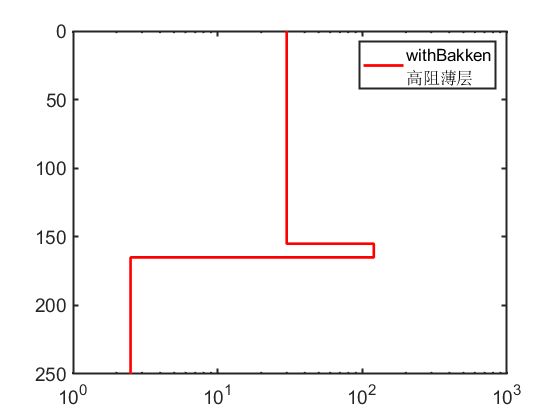
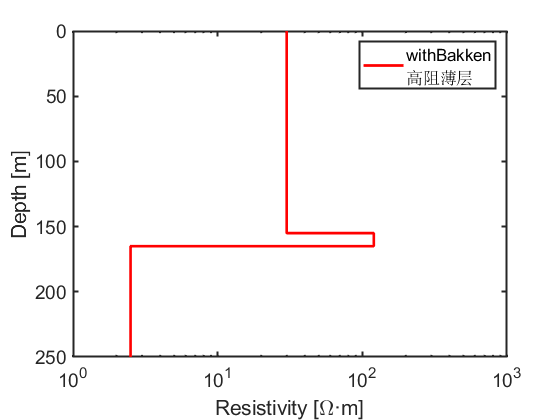
Site updated: 2022-05-14 18:36:58

diff --git a/2022/05/14/MTDW_withorwithoutBakken/index.html b/2022/05/14/MTDW_withorwithoutBakken/index.html
@@ -224,7 +224,7 @@
         </header>
 
         <div class="post-content">
-            <p>该模型是Alan Jones，2019中提到的一个Bakken模型，是对Strack，2014文献中的Bakken页岩层的简化。（即 Alan jones，2019文献中“EXAMPLE OF APPLICATION FOR AN “IMPOSSIBLE” PROBLEM”部分的例子。）</p>
+            <p>该模型是Alan Jones，2019中提到的一个Bakken模型，是对Strack，2014文献中的Bakken页岩层的简化。（即 Alan jones，2019文献中“<strong>EXAMPLE OF APPLICATION FOR AN “IMPOSSIBLE” PROBLEM</strong>”部分的例子。）</p>
 <p>通过该例可以看到，含/不含高阻薄层的正演响应曲线十分接近，这也是MT反演时难以识别高阻薄层的原因。</p>
 <h3 id="高阻薄层-模型参数"><a href="#高阻薄层-模型参数" class="headerlink" title="高阻薄层-模型参数"></a>高阻薄层-模型参数</h3><p>该模型中，高阻薄层厚度为10 m，电阻率值为120 Ω·m，其上方是30 Ω·m的相对低阻层，下方是2.5 Ω·m的均匀半空间。下表列出了含有高阻薄层与不含高阻薄层的模型参数。</p>
 <center>
@@ -267,7 +267,7 @@
 <center>withoutBakken model （不含高阻薄层模型）</center>
 
 <h3 id="正演响应"><a href="#正演响应" class="headerlink" title="正演响应"></a>正演响应</h3><p>下面绘制withBakken（含有高阻薄层）模型与withoutBakken（不含高阻薄层）模型的正演响应曲线：</p>
-<figure class="highlight matlab"><table><tr><td class="gutter"><pre><span class="line">1</span><br><span class="line">2</span><br><span class="line">3</span><br><span class="line">4</span><br><span class="line">5</span><br><span class="line">6</span><br><span class="line">7</span><br><span class="line">8</span><br><span class="line">9</span><br><span class="line">10</span><br><span class="line">11</span><br><span class="line">12</span><br><span class="line">13</span><br><span class="line">14</span><br><span class="line">15</span><br><span class="line">16</span><br><span class="line">17</span><br><span class="line">18</span><br><span class="line">19</span><br><span class="line">20</span><br><span class="line">21</span><br><span class="line">22</span><br><span class="line">23</span><br><span class="line">24</span><br><span class="line">25</span><br><span class="line">26</span><br><span class="line">27</span><br><span class="line">28</span><br><span class="line">29</span><br><span class="line">30</span><br><span class="line">31</span><br><span class="line">32</span><br><span class="line">33</span><br><span class="line">34</span><br><span class="line">35</span><br><span class="line">36</span><br><span class="line">37</span><br><span class="line">38</span><br><span class="line">39</span><br><span class="line">40</span><br><span class="line">41</span><br><span class="line">42</span><br><span class="line">43</span><br><span class="line">44</span><br><span class="line">45</span><br><span class="line">46</span><br><span class="line">47</span><br><span class="line">48</span><br><span class="line">49</span><br><span class="line">50</span><br><span class="line">51</span><br><span class="line">52</span><br><span class="line">53</span><br><span class="line">54</span><br><span class="line">55</span><br><span class="line">56</span><br><span class="line">57</span><br><span class="line">58</span><br><span class="line">59</span><br><span class="line">60</span><br><span class="line">61</span><br><span class="line">62</span><br><span class="line">63</span><br><span class="line">64</span><br><span class="line">65</span><br><span class="line">66</span><br><span class="line">67</span><br><span class="line">68</span><br><span class="line">69</span><br><span class="line">70</span><br><span class="line">71</span><br><span class="line">72</span><br><span class="line">73</span><br><span class="line">74</span><br><span class="line">75</span><br><span class="line">76</span><br><span class="line">77</span><br><span class="line">78</span><br><span class="line">79</span><br><span class="line">80</span><br><span class="line">81</span><br></pre></td><td class="code"><pre><span class="line"><span class="function"><span class="keyword">function</span> <span class="title">ShowMT1DForward_withorwithoutBakken</span><span class="params">(varargin)</span></span></span><br><span class="line">f = <span class="built_in">logspace</span>(<span class="number">-3</span>,<span class="number">3</span>,<span class="number">21</span>)&#x27;;</span><br><span class="line">rho_withBakken = [<span class="number">30</span>;<span class="number">120</span>;<span class="number">2.5</span>];        <span class="comment">% 高阻薄层</span></span><br><span class="line">rho_withoutBakken = [<span class="number">30</span>;<span class="number">30</span>;<span class="number">2.5</span>];      <span class="comment">% 不含高阻薄层</span></span><br><span class="line">h = [<span class="number">155</span>;<span class="number">10</span>];                         <span class="comment">% 两个厚度(最后一层为均匀半空间)  </span></span><br><span class="line"></span><br><span class="line"><span class="comment">% 绘制含有高阻薄层的模型 </span></span><br><span class="line">[x,y] = Getxy(rho_withBakken,h,<span class="number">85</span>);</span><br><span class="line"><span class="built_in">figure</span>,       </span><br><span class="line">semilogx(x,y,<span class="string">&#x27;-r&#x27;</span>,<span class="string">&#x27;LineWidth&#x27;</span>,<span class="number">2.0</span>);</span><br><span class="line">axis([<span class="number">10</span>^<span class="number">0</span>,<span class="number">10</span>^<span class="number">3</span>,-<span class="built_in">inf</span>,<span class="built_in">inf</span>]);</span><br><span class="line">set(gca,<span class="string">&#x27;YDir&#x27;</span>,<span class="string">&#x27;rev&#x27;</span>,<span class="string">&#x27;LineWidth&#x27;</span>,<span class="number">1.5</span>,<span class="string">&#x27;FontSize&#x27;</span>,<span class="number">14</span>);</span><br><span class="line"><span class="built_in">legend</span>([<span class="string">&#x27;withBakken&#x27;</span>,newline,<span class="string">&#x27;高阻薄层&#x27;</span>]);</span><br><span class="line"></span><br><span class="line"><span class="comment">% 绘制不含高阻薄层的模型</span></span><br><span class="line">[x1,y1] = Getxy(rho_withoutBakken,h,<span class="number">85</span>);</span><br><span class="line"><span class="built_in">figure</span>,       </span><br><span class="line">semilogx(x1,y1,<span class="string">&#x27;-k&#x27;</span>,<span class="string">&#x27;LineWidth&#x27;</span>,<span class="number">2.0</span>);</span><br><span class="line">axis([<span class="number">10</span>^<span class="number">0</span>,<span class="number">10</span>^<span class="number">3</span>,-<span class="built_in">inf</span>,<span class="built_in">inf</span>]);</span><br><span class="line">set(gca,<span class="string">&#x27;YDir&#x27;</span>,<span class="string">&#x27;rev&#x27;</span>,<span class="string">&#x27;LineWidth&#x27;</span>,<span class="number">1.5</span>,<span class="string">&#x27;FontSize&#x27;</span>,<span class="number">14</span>);</span><br><span class="line"><span class="built_in">legend</span>([<span class="string">&#x27;withoutBakken&#x27;</span>,newline,<span class="string">&#x27;不含高阻薄层&#x27;</span>]);</span><br><span class="line"></span><br><span class="line"><span class="comment">% 调用正演函数，计算视电阻率和相位</span></span><br><span class="line">[apparentRho_1,Phase_1]=MT1DForward(rho_withBakken,h,f);</span><br><span class="line">[apparentRho_2,Phase_2]=MT1DForward(rho_withoutBakken,h,f);</span><br><span class="line"></span><br><span class="line"><span class="comment">% 绘制正演响应结果</span></span><br><span class="line"><span class="built_in">figure</span>,</span><br><span class="line">subplot(<span class="number">2</span>,<span class="number">2</span>,<span class="number">1</span>)</span><br><span class="line">    <span class="built_in">plot</span>(<span class="number">1.</span>/f,apparentRho_1,<span class="string">&#x27;-r&#x27;</span>,<span class="string">&#x27;LineWidth&#x27;</span>,<span class="number">2.5</span>)</span><br><span class="line">    <span class="built_in">hold</span> on;</span><br><span class="line">    <span class="built_in">plot</span>(<span class="number">1.</span>/f,apparentRho_2,<span class="string">&#x27;-k&#x27;</span>,<span class="string">&#x27;LineWidth&#x27;</span>,<span class="number">1.5</span>)</span><br><span class="line">    set(gca,<span class="string">&#x27;Yscale&#x27;</span>,<span class="string">&#x27;log&#x27;</span>,<span class="string">&#x27;Xscale&#x27;</span>,<span class="string">&#x27;log&#x27;</span>,<span class="string">&#x27;LineWidth&#x27;</span>,<span class="number">1.5</span>,<span class="string">&#x27;FontSize&#x27;</span>,<span class="number">12</span>)</span><br><span class="line">    xlabel(<span class="string">&#x27;periods [s]&#x27;</span>);</span><br><span class="line">    ylabel(<span class="string">&#x27;apparent \rho [\Omega·m]&#x27;</span>)</span><br><span class="line">    title(<span class="string">&#x27;Rho&#x27;</span>);</span><br><span class="line">    axis([<span class="number">10</span>^<span class="number">-3</span>,<span class="number">10</span>^<span class="number">3</span>,<span class="number">10</span>^<span class="number">0</span>,<span class="number">10</span>^<span class="number">2</span>]);</span><br><span class="line">    <span class="built_in">legend</span>(<span class="string">&#x27;高阻薄层&#x27;</span>,<span class="string">&#x27;不含高阻薄层&#x27;</span>,<span class="string">&#x27;FontSize&#x27;</span>,<span class="number">12</span>);</span><br><span class="line">subplot(<span class="number">2</span>,<span class="number">2</span>,<span class="number">3</span>)</span><br><span class="line">    <span class="built_in">plot</span>(<span class="number">1.</span>/f,Phase_1,<span class="string">&#x27;-r&#x27;</span>,<span class="string">&#x27;LineWidth&#x27;</span>,<span class="number">2.5</span>)</span><br><span class="line">    <span class="built_in">hold</span> on;</span><br><span class="line">    <span class="built_in">plot</span>(<span class="number">1.</span>/f,Phase_2,<span class="string">&#x27;-k&#x27;</span>,<span class="string">&#x27;LineWidth&#x27;</span>,<span class="number">1.5</span>)</span><br><span class="line">    set(gca,<span class="string">&#x27;Xscale&#x27;</span>,<span class="string">&#x27;log&#x27;</span>,<span class="string">&#x27;LineWidth&#x27;</span>,<span class="number">1.5</span>,<span class="string">&#x27;FontSize&#x27;</span>,<span class="number">12</span>)</span><br><span class="line">    xlabel(<span class="string">&#x27;periods [s]&#x27;</span>);</span><br><span class="line">    ylabel(<span class="string">&#x27;phase [\circ]&#x27;</span>);</span><br><span class="line">    title(<span class="string">&#x27;Phase&#x27;</span>);</span><br><span class="line">    axis([<span class="number">10</span>^<span class="number">-3</span>,<span class="number">10</span>^<span class="number">3</span>,-<span class="built_in">inf</span>,<span class="built_in">inf</span>]);</span><br><span class="line">subplot(<span class="number">2</span>,<span class="number">2</span>,[<span class="number">2</span>,<span class="number">4</span>])</span><br><span class="line">    <span class="built_in">plot</span>(<span class="number">1.</span>/f,apparentRho_1-apparentRho_2,<span class="string">&#x27;-r&#x27;</span>,<span class="string">&#x27;LineWidth&#x27;</span>,<span class="number">2.0</span>)</span><br><span class="line">    <span class="built_in">hold</span> on;</span><br><span class="line">    <span class="built_in">plot</span>(<span class="number">1.</span>/f,Phase_1-Phase_2,<span class="string">&#x27;-k&#x27;</span>,<span class="string">&#x27;LineWidth&#x27;</span>,<span class="number">2.0</span>)</span><br><span class="line">    set(gca,<span class="string">&#x27;Xscale&#x27;</span>,<span class="string">&#x27;log&#x27;</span>,<span class="string">&#x27;LineWidth&#x27;</span>,<span class="number">1.5</span>,<span class="string">&#x27;FontSize&#x27;</span>,<span class="number">12</span>)</span><br><span class="line">    axis([<span class="number">10</span>^<span class="number">-3</span>,<span class="number">10</span>^<span class="number">3</span>,<span class="number">-0.15</span>,<span class="number">0.15</span>]);</span><br><span class="line">    xlabel(<span class="string">&#x27;periods [s]&#x27;</span>);</span><br><span class="line">    ylabel(<span class="string">&#x27;apparent \rho [\Omega·m]   phase [\circ]&#x27;</span>);</span><br><span class="line">    <span class="built_in">legend</span>(<span class="string">&#x27;The difference between rho&#x27;</span>,<span class="string">&#x27;The difference between phase&#x27;</span>,<span class="string">&#x27;FontSize&#x27;</span>,<span class="number">12</span>);</span><br><span class="line"></span><br><span class="line">set(gcf,<span class="string">&#x27;unit&#x27;</span>,<span class="string">&#x27;normalized&#x27;</span>,<span class="string">&#x27;position&#x27;</span>,[<span class="number">0.2</span>,<span class="number">0.2</span>,<span class="number">0.7</span>,<span class="number">0.5</span>]);</span><br><span class="line"><span class="keyword">end</span></span><br><span class="line"></span><br><span class="line"><span class="comment">% ------- Plot the 1D layered model -----from HanBo---- %</span></span><br><span class="line">    <span class="function"><span class="keyword">function</span> <span class="params">[x,y]</span> = <span class="title">Getxy</span><span class="params">(rho, h, deep)</span></span></span><br><span class="line">    Depth(<span class="number">1</span>) = <span class="number">0</span>;                    <span class="comment">% Depth数组存储每层的顶面埋深</span></span><br><span class="line">    y(<span class="number">1</span>) = Depth(<span class="number">1</span>);</span><br><span class="line">    <span class="keyword">if</span> <span class="built_in">length</span>(rho)&gt;=<span class="number">2</span></span><br><span class="line">        <span class="keyword">for</span> <span class="built_in">j</span>=<span class="number">2</span>:<span class="built_in">length</span>(rho)</span><br><span class="line">            Depth(<span class="built_in">j</span>) = Depth(<span class="built_in">j</span><span class="number">-1</span>)+h(<span class="built_in">j</span><span class="number">-1</span>);</span><br><span class="line">            y(<span class="number">2</span>*<span class="built_in">j</span><span class="number">-2</span>) = Depth(<span class="built_in">j</span>);</span><br><span class="line">            y(<span class="number">2</span>*<span class="built_in">j</span><span class="number">-1</span>) = Depth(<span class="built_in">j</span>);</span><br><span class="line">        <span class="keyword">end</span></span><br><span class="line">        y(<span class="number">2</span>*<span class="built_in">j</span>) = y(<span class="number">2</span>*<span class="built_in">j</span><span class="number">-1</span>) + deep;        <span class="comment">% 设置画图时底部半空间的最大显示深度</span></span><br><span class="line">    <span class="keyword">else</span></span><br><span class="line">        y(<span class="number">2</span>) = <span class="number">1000</span>;                <span class="comment">% 若为均匀半空间，则显示到1000m</span></span><br><span class="line">    <span class="keyword">end</span></span><br><span class="line"></span><br><span class="line">    <span class="keyword">for</span> <span class="built_in">j</span>=<span class="number">1</span>:<span class="built_in">length</span>(rho)</span><br><span class="line">        x(<span class="number">2</span>*<span class="built_in">j</span><span class="number">-1</span>)=rho(<span class="built_in">j</span>);</span><br><span class="line">        x(<span class="number">2</span>*<span class="built_in">j</span>)=rho(<span class="built_in">j</span>);</span><br><span class="line">    <span class="keyword">end</span></span><br><span class="line"></span><br><span class="line">    <span class="keyword">end</span></span><br></pre></td></tr></table></figure>
+<figure class="highlight matlab"><table><tr><td class="gutter"><pre><span class="line">1</span><br><span class="line">2</span><br><span class="line">3</span><br><span class="line">4</span><br><span class="line">5</span><br><span class="line">6</span><br><span class="line">7</span><br><span class="line">8</span><br><span class="line">9</span><br><span class="line">10</span><br><span class="line">11</span><br><span class="line">12</span><br><span class="line">13</span><br><span class="line">14</span><br><span class="line">15</span><br><span class="line">16</span><br><span class="line">17</span><br><span class="line">18</span><br><span class="line">19</span><br><span class="line">20</span><br><span class="line">21</span><br><span class="line">22</span><br><span class="line">23</span><br><span class="line">24</span><br><span class="line">25</span><br><span class="line">26</span><br><span class="line">27</span><br><span class="line">28</span><br><span class="line">29</span><br><span class="line">30</span><br><span class="line">31</span><br><span class="line">32</span><br><span class="line">33</span><br><span class="line">34</span><br><span class="line">35</span><br><span class="line">36</span><br><span class="line">37</span><br><span class="line">38</span><br><span class="line">39</span><br><span class="line">40</span><br><span class="line">41</span><br><span class="line">42</span><br><span class="line">43</span><br><span class="line">44</span><br><span class="line">45</span><br><span class="line">46</span><br><span class="line">47</span><br><span class="line">48</span><br><span class="line">49</span><br><span class="line">50</span><br><span class="line">51</span><br><span class="line">52</span><br><span class="line">53</span><br><span class="line">54</span><br><span class="line">55</span><br><span class="line">56</span><br><span class="line">57</span><br><span class="line">58</span><br><span class="line">59</span><br><span class="line">60</span><br><span class="line">61</span><br><span class="line">62</span><br><span class="line">63</span><br><span class="line">64</span><br><span class="line">65</span><br><span class="line">66</span><br><span class="line">67</span><br><span class="line">68</span><br><span class="line">69</span><br><span class="line">70</span><br><span class="line">71</span><br><span class="line">72</span><br><span class="line">73</span><br><span class="line">74</span><br><span class="line">75</span><br><span class="line">76</span><br><span class="line">77</span><br><span class="line">78</span><br><span class="line">79</span><br><span class="line">80</span><br><span class="line">81</span><br><span class="line">82</span><br><span class="line">83</span><br><span class="line">84</span><br><span class="line">85</span><br></pre></td><td class="code"><pre><span class="line"><span class="function"><span class="keyword">function</span> <span class="title">ShowMT1DForward_withorwithoutBakken</span><span class="params">(varargin)</span></span></span><br><span class="line">f = <span class="built_in">logspace</span>(<span class="number">-3</span>,<span class="number">3</span>,<span class="number">21</span>)&#x27;;</span><br><span class="line">rho_withBakken = [<span class="number">30</span>;<span class="number">120</span>;<span class="number">2.5</span>];        <span class="comment">% 高阻薄层</span></span><br><span class="line">rho_withoutBakken = [<span class="number">30</span>;<span class="number">30</span>;<span class="number">2.5</span>];      <span class="comment">% 不含高阻薄层</span></span><br><span class="line">h = [<span class="number">155</span>;<span class="number">10</span>];                         <span class="comment">% 两个厚度(最后一层为均匀半空间)  </span></span><br><span class="line"></span><br><span class="line"><span class="comment">% 绘制含有高阻薄层的模型 </span></span><br><span class="line">[x,y] = Getxy(rho_withBakken,h,<span class="number">85</span>);</span><br><span class="line"><span class="built_in">figure</span>,       </span><br><span class="line">semilogx(x,y,<span class="string">&#x27;-r&#x27;</span>,<span class="string">&#x27;LineWidth&#x27;</span>,<span class="number">2.0</span>);</span><br><span class="line">axis([<span class="number">10</span>^<span class="number">0</span>,<span class="number">10</span>^<span class="number">3</span>,-<span class="built_in">inf</span>,<span class="built_in">inf</span>]);</span><br><span class="line">set(gca,<span class="string">&#x27;YDir&#x27;</span>,<span class="string">&#x27;rev&#x27;</span>,<span class="string">&#x27;LineWidth&#x27;</span>,<span class="number">1.5</span>,<span class="string">&#x27;FontSize&#x27;</span>,<span class="number">14</span>);</span><br><span class="line">xlabel(<span class="string">&#x27;Resistivity [\Omega·m]&#x27;</span>);</span><br><span class="line">ylabel(<span class="string">&#x27;Depth [m]&#x27;</span>);</span><br><span class="line"><span class="built_in">legend</span>([<span class="string">&#x27;withBakken&#x27;</span>,newline,<span class="string">&#x27;高阻薄层&#x27;</span>]);</span><br><span class="line"></span><br><span class="line"><span class="comment">% 绘制不含高阻薄层的模型</span></span><br><span class="line">[x1,y1] = Getxy(rho_withoutBakken,h,<span class="number">85</span>);</span><br><span class="line"><span class="built_in">figure</span>,       </span><br><span class="line">semilogx(x1,y1,<span class="string">&#x27;-k&#x27;</span>,<span class="string">&#x27;LineWidth&#x27;</span>,<span class="number">2.0</span>);</span><br><span class="line">axis([<span class="number">10</span>^<span class="number">0</span>,<span class="number">10</span>^<span class="number">3</span>,-<span class="built_in">inf</span>,<span class="built_in">inf</span>]);</span><br><span class="line">set(gca,<span class="string">&#x27;YDir&#x27;</span>,<span class="string">&#x27;rev&#x27;</span>,<span class="string">&#x27;LineWidth&#x27;</span>,<span class="number">1.5</span>,<span class="string">&#x27;FontSize&#x27;</span>,<span class="number">14</span>);</span><br><span class="line">xlabel(<span class="string">&#x27;Resistivity [\Omega·m]&#x27;</span>);</span><br><span class="line">ylabel(<span class="string">&#x27;Depth [m]&#x27;</span>);</span><br><span class="line"><span class="built_in">legend</span>([<span class="string">&#x27;withoutBakken&#x27;</span>,newline,<span class="string">&#x27;不含高阻薄层&#x27;</span>]);</span><br><span class="line"></span><br><span class="line"><span class="comment">% 调用正演函数，计算视电阻率和相位</span></span><br><span class="line">[apparentRho_1,Phase_1]=MT1DForward(rho_withBakken,h,f);</span><br><span class="line">[apparentRho_2,Phase_2]=MT1DForward(rho_withoutBakken,h,f);</span><br><span class="line"></span><br><span class="line"><span class="comment">% 绘制正演响应结果</span></span><br><span class="line"><span class="built_in">figure</span>,</span><br><span class="line">subplot(<span class="number">2</span>,<span class="number">2</span>,<span class="number">1</span>)</span><br><span class="line">    <span class="built_in">plot</span>(<span class="number">1.</span>/f,apparentRho_1,<span class="string">&#x27;-r&#x27;</span>,<span class="string">&#x27;LineWidth&#x27;</span>,<span class="number">2.5</span>)</span><br><span class="line">    <span class="built_in">hold</span> on;</span><br><span class="line">    <span class="built_in">plot</span>(<span class="number">1.</span>/f,apparentRho_2,<span class="string">&#x27;-k&#x27;</span>,<span class="string">&#x27;LineWidth&#x27;</span>,<span class="number">1.5</span>)</span><br><span class="line">    set(gca,<span class="string">&#x27;Yscale&#x27;</span>,<span class="string">&#x27;log&#x27;</span>,<span class="string">&#x27;Xscale&#x27;</span>,<span class="string">&#x27;log&#x27;</span>,<span class="string">&#x27;LineWidth&#x27;</span>,<span class="number">1.5</span>,<span class="string">&#x27;FontSize&#x27;</span>,<span class="number">12</span>)</span><br><span class="line">    xlabel(<span class="string">&#x27;periods [s]&#x27;</span>);</span><br><span class="line">    ylabel(<span class="string">&#x27;apparent \rho [\Omega·m]&#x27;</span>)</span><br><span class="line">    title(<span class="string">&#x27;Rho&#x27;</span>);</span><br><span class="line">    axis([<span class="number">10</span>^<span class="number">-3</span>,<span class="number">10</span>^<span class="number">3</span>,<span class="number">10</span>^<span class="number">0</span>,<span class="number">10</span>^<span class="number">2</span>]);</span><br><span class="line">    <span class="built_in">legend</span>(<span class="string">&#x27;高阻薄层&#x27;</span>,<span class="string">&#x27;不含高阻薄层&#x27;</span>,<span class="string">&#x27;FontSize&#x27;</span>,<span class="number">12</span>);</span><br><span class="line">subplot(<span class="number">2</span>,<span class="number">2</span>,<span class="number">3</span>)</span><br><span class="line">    <span class="built_in">plot</span>(<span class="number">1.</span>/f,Phase_1,<span class="string">&#x27;-r&#x27;</span>,<span class="string">&#x27;LineWidth&#x27;</span>,<span class="number">2.5</span>)</span><br><span class="line">    <span class="built_in">hold</span> on;</span><br><span class="line">    <span class="built_in">plot</span>(<span class="number">1.</span>/f,Phase_2,<span class="string">&#x27;-k&#x27;</span>,<span class="string">&#x27;LineWidth&#x27;</span>,<span class="number">1.5</span>)</span><br><span class="line">    set(gca,<span class="string">&#x27;Xscale&#x27;</span>,<span class="string">&#x27;log&#x27;</span>,<span class="string">&#x27;LineWidth&#x27;</span>,<span class="number">1.5</span>,<span class="string">&#x27;FontSize&#x27;</span>,<span class="number">12</span>)</span><br><span class="line">    xlabel(<span class="string">&#x27;periods [s]&#x27;</span>);</span><br><span class="line">    ylabel(<span class="string">&#x27;phase [\circ]&#x27;</span>);</span><br><span class="line">    title(<span class="string">&#x27;Phase&#x27;</span>);</span><br><span class="line">    axis([<span class="number">10</span>^<span class="number">-3</span>,<span class="number">10</span>^<span class="number">3</span>,-<span class="built_in">inf</span>,<span class="built_in">inf</span>]);</span><br><span class="line">subplot(<span class="number">2</span>,<span class="number">2</span>,[<span class="number">2</span>,<span class="number">4</span>])</span><br><span class="line">    <span class="built_in">plot</span>(<span class="number">1.</span>/f,apparentRho_1-apparentRho_2,<span class="string">&#x27;-r&#x27;</span>,<span class="string">&#x27;LineWidth&#x27;</span>,<span class="number">2.0</span>)</span><br><span class="line">    <span class="built_in">hold</span> on;</span><br><span class="line">    <span class="built_in">plot</span>(<span class="number">1.</span>/f,Phase_1-Phase_2,<span class="string">&#x27;-k&#x27;</span>,<span class="string">&#x27;LineWidth&#x27;</span>,<span class="number">2.0</span>)</span><br><span class="line">    set(gca,<span class="string">&#x27;Xscale&#x27;</span>,<span class="string">&#x27;log&#x27;</span>,<span class="string">&#x27;LineWidth&#x27;</span>,<span class="number">1.5</span>,<span class="string">&#x27;FontSize&#x27;</span>,<span class="number">12</span>)</span><br><span class="line">    axis([<span class="number">10</span>^<span class="number">-3</span>,<span class="number">10</span>^<span class="number">3</span>,<span class="number">-0.15</span>,<span class="number">0.15</span>]);</span><br><span class="line">    xlabel(<span class="string">&#x27;periods [s]&#x27;</span>);</span><br><span class="line">    ylabel(<span class="string">&#x27;apparent \rho [\Omega·m]   phase [\circ]&#x27;</span>);</span><br><span class="line">    <span class="built_in">legend</span>(<span class="string">&#x27;The difference between rho&#x27;</span>,<span class="string">&#x27;The difference between phase&#x27;</span>,<span class="string">&#x27;FontSize&#x27;</span>,<span class="number">12</span>);</span><br><span class="line"></span><br><span class="line">set(gcf,<span class="string">&#x27;unit&#x27;</span>,<span class="string">&#x27;normalized&#x27;</span>,<span class="string">&#x27;position&#x27;</span>,[<span class="number">0.2</span>,<span class="number">0.2</span>,<span class="number">0.7</span>,<span class="number">0.5</span>]);</span><br><span class="line"><span class="keyword">end</span></span><br><span class="line"></span><br><span class="line"><span class="comment">% ------- Plot the 1D layered model -----from HanBo---- %</span></span><br><span class="line">    <span class="function"><span class="keyword">function</span> <span class="params">[x,y]</span> = <span class="title">Getxy</span><span class="params">(rho, h, deep)</span></span></span><br><span class="line">    Depth(<span class="number">1</span>) = <span class="number">0</span>;                    <span class="comment">% Depth数组存储每层的顶面埋深</span></span><br><span class="line">    y(<span class="number">1</span>) = Depth(<span class="number">1</span>);</span><br><span class="line">    <span class="keyword">if</span> <span class="built_in">length</span>(rho)&gt;=<span class="number">2</span></span><br><span class="line">        <span class="keyword">for</span> <span class="built_in">j</span>=<span class="number">2</span>:<span class="built_in">length</span>(rho)</span><br><span class="line">            Depth(<span class="built_in">j</span>) = Depth(<span class="built_in">j</span><span class="number">-1</span>)+h(<span class="built_in">j</span><span class="number">-1</span>);</span><br><span class="line">            y(<span class="number">2</span>*<span class="built_in">j</span><span class="number">-2</span>) = Depth(<span class="built_in">j</span>);</span><br><span class="line">            y(<span class="number">2</span>*<span class="built_in">j</span><span class="number">-1</span>) = Depth(<span class="built_in">j</span>);</span><br><span class="line">        <span class="keyword">end</span></span><br><span class="line">        y(<span class="number">2</span>*<span class="built_in">j</span>) = y(<span class="number">2</span>*<span class="built_in">j</span><span class="number">-1</span>) + deep;        <span class="comment">% 设置画图时底部半空间的最大显示深度</span></span><br><span class="line">    <span class="keyword">else</span></span><br><span class="line">        y(<span class="number">2</span>) = <span class="number">1000</span>;                <span class="comment">% 若为均匀半空间，则显示到1000m</span></span><br><span class="line">    <span class="keyword">end</span></span><br><span class="line"></span><br><span class="line">    <span class="keyword">for</span> <span class="built_in">j</span>=<span class="number">1</span>:<span class="built_in">length</span>(rho)</span><br><span class="line">        x(<span class="number">2</span>*<span class="built_in">j</span><span class="number">-1</span>)=rho(<span class="built_in">j</span>);</span><br><span class="line">        x(<span class="number">2</span>*<span class="built_in">j</span>)=rho(<span class="built_in">j</span>);</span><br><span class="line">    <span class="keyword">end</span></span><br><span class="line"></span><br><span class="line">    <span class="keyword">end</span></span><br></pre></td></tr></table></figure>
 <p>其中，MT1DForward函数即<a href="https://cocklebur0924.github.io/2022/03/25/MT1D_Forward/">“大地电磁一维正演”</a>中提到的正演函数：</p>
 <figure class="highlight matlab"><table><tr><td class="gutter"><pre><span class="line">1</span><br><span class="line">2</span><br><span class="line">3</span><br><span class="line">4</span><br><span class="line">5</span><br><span class="line">6</span><br><span class="line">7</span><br><span class="line">8</span><br><span class="line">9</span><br><span class="line">10</span><br><span class="line">11</span><br><span class="line">12</span><br><span class="line">13</span><br><span class="line">14</span><br><span class="line">15</span><br><span class="line">16</span><br><span class="line">17</span><br><span class="line">18</span><br><span class="line">19</span><br><span class="line">20</span><br><span class="line">21</span><br><span class="line">22</span><br><span class="line">23</span><br><span class="line">24</span><br><span class="line">25</span><br><span class="line">26</span><br></pre></td><td class="code"><pre><span class="line"><span class="function"><span class="keyword">function</span> <span class="params">[apparentRho,Phase]</span> = <span class="title">MT1DForward</span><span class="params">(rho,h,f)</span>  </span></span><br><span class="line"><span class="comment">% Notes goes here: https://cocklebur0924.github.io/2022/03/25/MT1DForward/</span></span><br><span class="line">nFreqs = <span class="built_in">length</span>(f);</span><br><span class="line">nLayer = <span class="built_in">length</span>(rho);</span><br><span class="line"></span><br><span class="line"><span class="keyword">for</span> iFreq = <span class="number">1</span>:nFreqs</span><br><span class="line">    omega = <span class="number">2</span>*<span class="built_in">pi</span>*f(iFreq);</span><br><span class="line">    mu = <span class="number">4</span>*<span class="built_in">pi</span>*<span class="number">1e-7</span>;</span><br><span class="line"></span><br><span class="line"><span class="keyword">for</span> <span class="built_in">j</span> = nLayer:<span class="number">-1</span>:<span class="number">1</span></span><br><span class="line">    k = <span class="built_in">sqrt</span>(<span class="number">1</span><span class="built_in">i</span>*omega*mu/rho(<span class="built_in">j</span>));</span><br><span class="line">    Z0 = <span class="built_in">sqrt</span>(<span class="number">1</span><span class="built_in">i</span>*omega*mu*rho(<span class="built_in">j</span>));</span><br><span class="line">    <span class="keyword">if</span> <span class="built_in">j</span>==nLayer</span><br><span class="line">        Z = Z0;</span><br><span class="line">        <span class="keyword">continue</span>;</span><br><span class="line">    <span class="keyword">end</span></span><br><span class="line">    R = (Z0-Z)/(Z0+Z);</span><br><span class="line">    Q = <span class="built_in">exp</span>(<span class="number">-2</span>*k*h(<span class="built_in">j</span>));</span><br><span class="line">    Z = Z0*(<span class="number">1</span>-R*Q)/(<span class="number">1</span>+R*Q);</span><br><span class="line"><span class="keyword">end</span></span><br><span class="line">            Z(iFreq)=Z;</span><br><span class="line">            apparentRho(iFreq) = (<span class="built_in">abs</span>(Z(iFreq)).^<span class="number">2</span>)./(omega*mu);</span><br><span class="line">            Phase(iFreq) = atan2d(<span class="built_in">imag</span>(Z(iFreq)),<span class="built_in">real</span>(Z(iFreq))); </span><br><span class="line">            <span class="comment">% Notice:公式里计算出的相位单位为弧度，这里为°是因为使用atan2d函数转换成了度</span></span><br><span class="line"><span class="keyword">end</span>  </span><br><span class="line"><span class="keyword">end</span></span><br></pre></td></tr></table></figure>
 <h3 id="Result"><a href="#Result" class="headerlink" title="Result"></a>Result</h3><center><img src=/images/PictureDW/withorwithoutBakken.png width=120%></center>

diff --git a/category/index.html b/category/index.html
@@ -169,14 +169,6 @@
                                 
                                     <article class="archive-item">
                                         <a class="archive-item-link"
-                                           href="/2022/04/10/MT1Dinv_Bostick/">Bostick大地电磁一维反演 | matlab和python代码实现</a>
-                                    </article>
-                                
-                            
-                                
-                                
-                                    <article class="archive-item">
-                                        <a class="archive-item-link"
                                            href="/2022/04/10/MT1Dinv_Bat/">Bat Algorithm(BA)大地电磁一维反演 | 蝙蝠算法</a>
                                     </article>
                                 
@@ -185,7 +177,15 @@
                                 
                                     <article class="archive-item">
                                         <a class="archive-item-link"
-                                           href="/2022/04/10/MT1Dinv_PSO/">Particle Swarm Optimization(PSO)大地电磁一维反演 | 粒子群优化算法</a>
+                                           href="/2022/04/10/MT1Dinv_Firefly/">Firefly Algorithm(FA)大地电磁一维反演 | 萤火虫算法</a>
+                                    </article>
+                                
+                            
+                                
+                                
+                                    <article class="archive-item">
+                                        <a class="archive-item-link"
+                                           href="/2022/04/10/MT1Dinv_Bostick/">Bostick大地电磁一维反演 | matlab和python代码实现</a>
                                     </article>
                                 
                             
